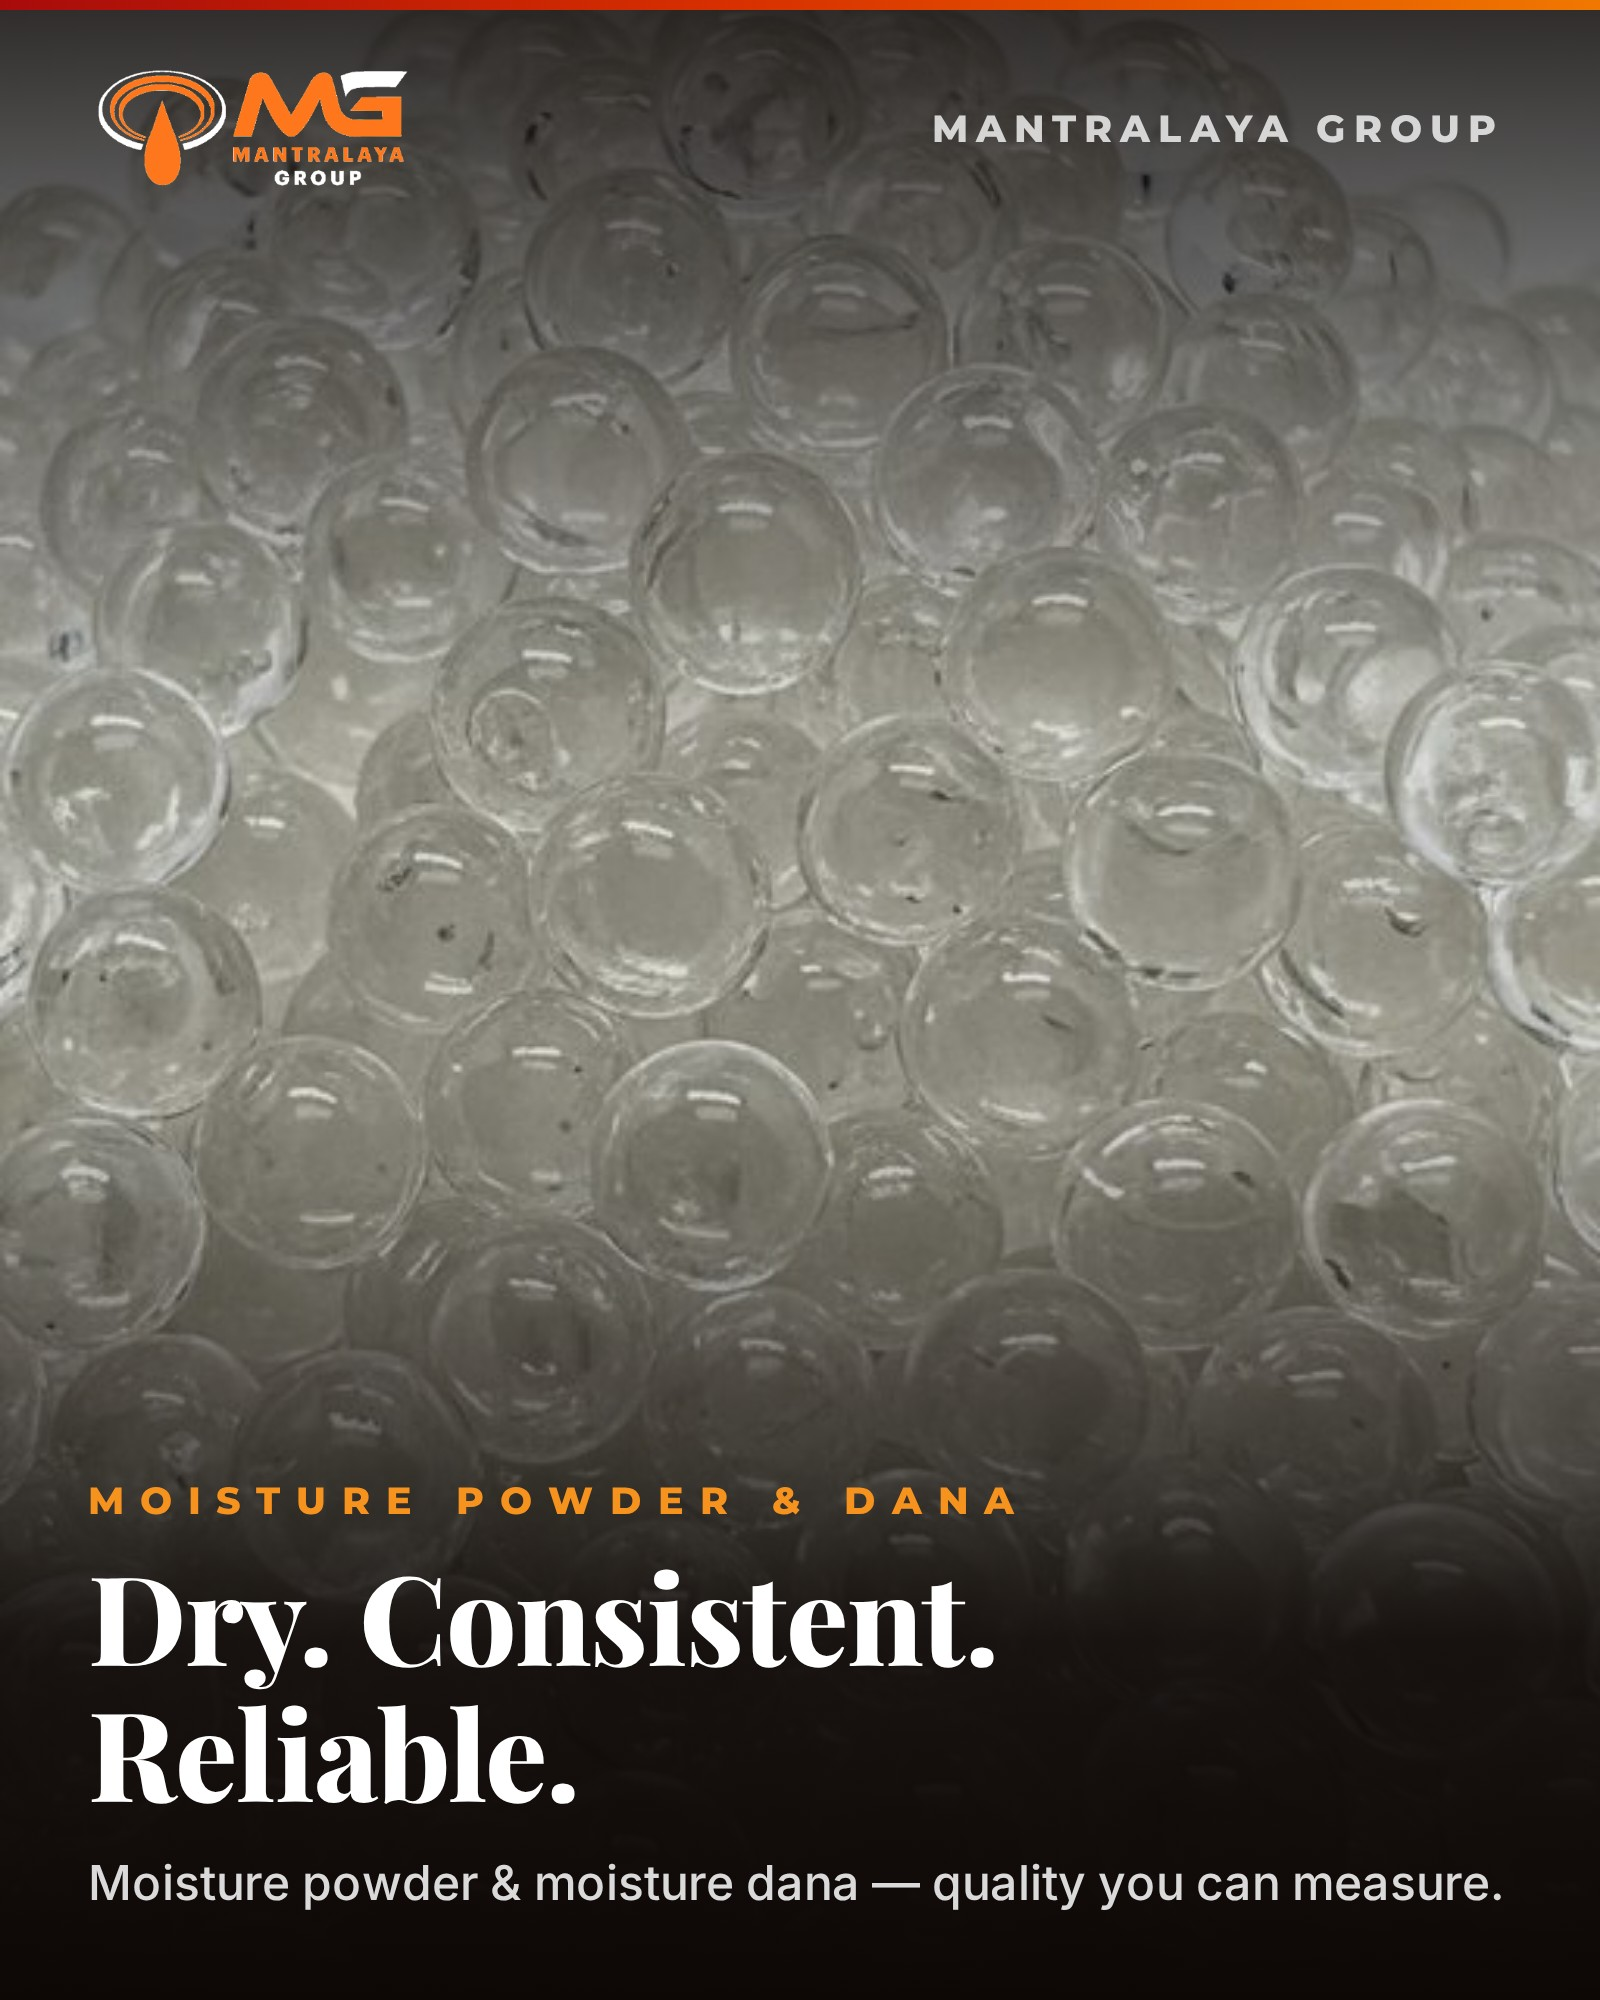
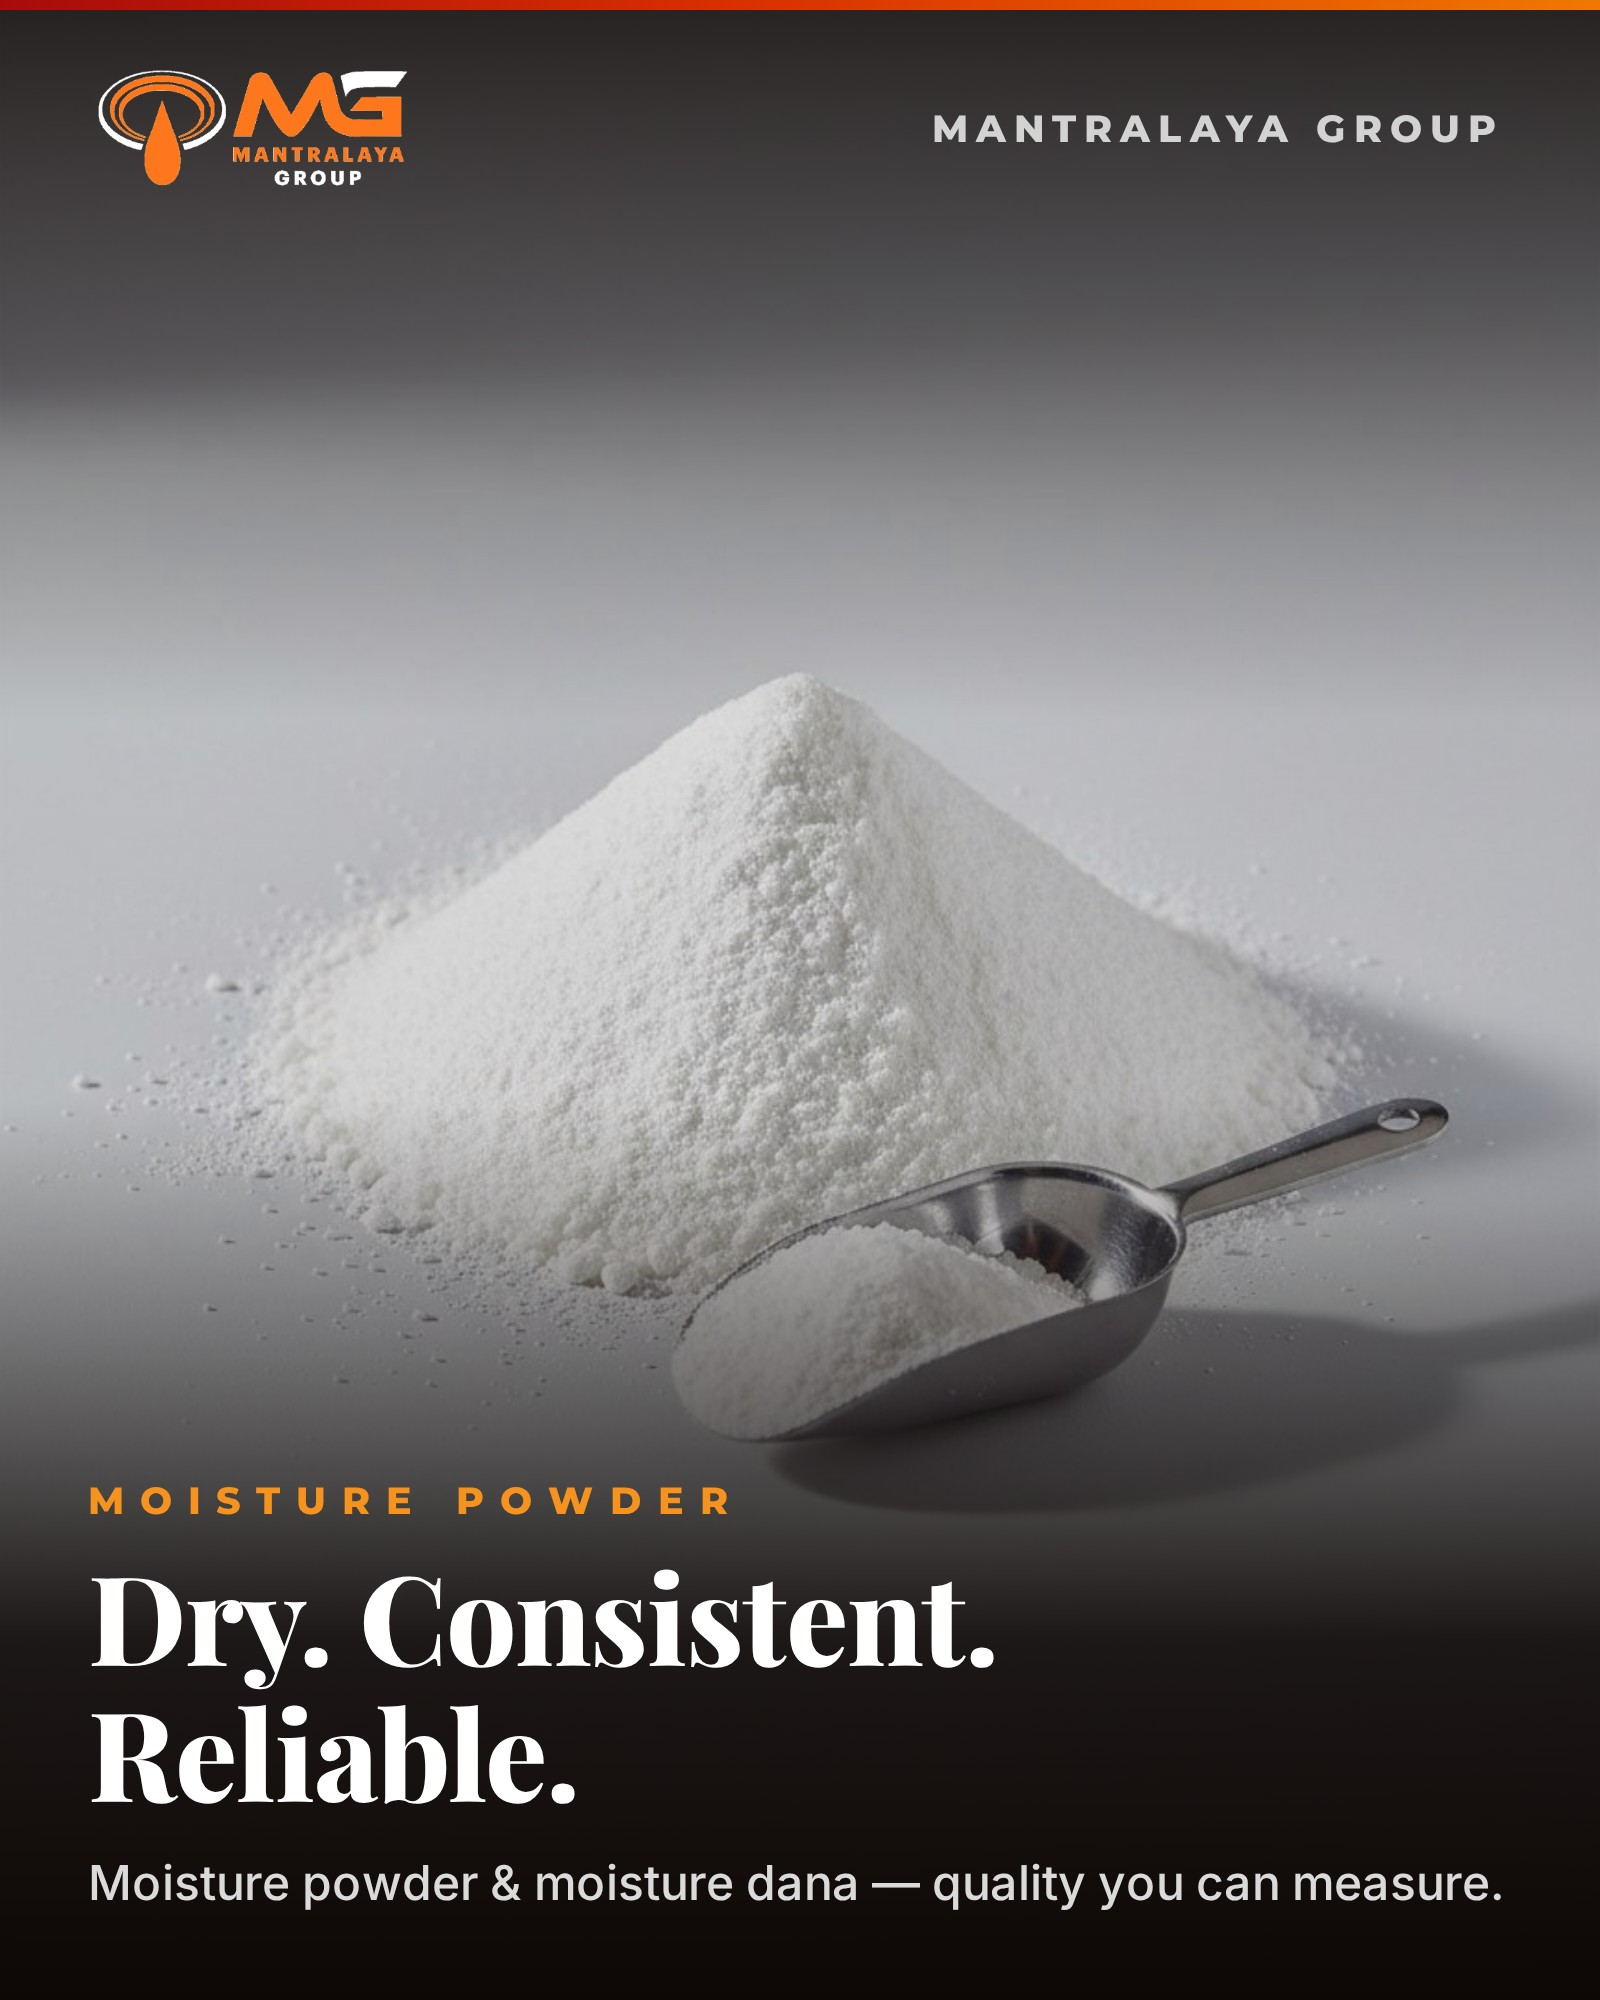
Poster 04: real moisture powder image replaces granules stand-in

diff --git a/posters/src/poster-04-moisture--dark.html b/posters/src/poster-04-moisture--dark.html
@@ -20,5 +20,5 @@ body{width:800px;height:1000px;overflow:hidden;position:relative;font-family:'Mo
 .bt{margin-top:auto;padding:0 44px 40px;position:relative;z-index:4}
 .cap2{font-size:62px;margin-top:12px;color:#fff}
 .sub{margin-top:14px;font-family:'Inter',sans-serif;font-size:24px;font-weight:500;color:rgba(255,255,255,0.85);line-height:1.5}
-</style><div class="ph"><img src="../../products/natural-granules.jpg"></div><div class="rule"></div><div class="hdr"><img src="../../mg-logo-dark.png"><div class="co">MANTRALAYA GROUP</div></div>
-<div class="bt"><div class="label">MOISTURE POWDER &amp; DANA</div><div class="cap cap2">Dry. Consistent. Reliable.</div><div class="sub">Moisture powder &amp; moisture dana — quality you can measure.</div></div></body></html>
+</style><div class="ph"><img src="../../products/moisture-powder-full.jpg"></div><div class="rule"></div><div class="hdr"><img src="../../mg-logo-dark.png"><div class="co">MANTRALAYA GROUP</div></div>
+<div class="bt"><div class="label">MOISTURE POWDER</div><div class="cap cap2">Dry. Consistent. Reliable.</div><div class="sub">Moisture powder &amp; moisture dana — quality you can measure.</div></div></body></html>

diff --git a/posters/src/poster-04-moisture--light.html b/posters/src/poster-04-moisture--light.html
@@ -20,5 +20,5 @@ body{width:800px;height:1000px;overflow:hidden;position:relative;font-family:'Mo
 .bt{margin-top:auto;padding:0 44px 40px;position:relative;z-index:4}
 .cap2{font-size:62px;margin-top:12px;color:#10141B}
 .sub{margin-top:14px;font-family:'Inter',sans-serif;font-size:24px;font-weight:500;color:#3A4250;line-height:1.5}
-</style><div class="ph"><img src="../../products/natural-granules.jpg"></div><div class="rule"></div><div class="hdr"><img src="../../mg-logo.png"><div class="co">MANTRALAYA GROUP</div></div>
-<div class="bt"><div class="label">MOISTURE POWDER &amp; DANA</div><div class="cap cap2">Dry. Consistent. Reliable.</div><div class="sub">Moisture powder &amp; moisture dana — quality you can measure.</div></div></body></html>
+</style><div class="ph"><img src="../../products/moisture-powder-full.jpg"></div><div class="rule"></div><div class="hdr"><img src="../../mg-logo.png"><div class="co">MANTRALAYA GROUP</div></div>
+<div class="bt"><div class="label">MOISTURE POWDER</div><div class="cap cap2">Dry. Consistent. Reliable.</div><div class="sub">Moisture powder &amp; moisture dana — quality you can measure.</div></div></body></html>

diff --git a/posters/gen2.py b/posters/gen2.py
@@ -192,7 +192,7 @@ def build(dark):
       f"Sourced from the world's finest. {em('Delivered here.')}",
       ['ARAMCO','BOROUGE','CABOT','CELANESE','CHEVRON PHILLIPS','EXXON MOBIL','FORMOSA','GC MARKETING','GULF POLYMERS','INEOS (INOVYN)','LG CHEM','LYONDELL BASELL','MITSUBISHI CORP.','OQ (LUBAN)','SABIC','SCGC','WESTLAKE','&amp; MORE'],6,'coloured-granules',circles=['natural-granules','coloured-granules','pigments']))
     v['poster-03-pigments'] = (700,1000, photoposter(700,1000,dark,'PIGMENTS','Colour, mastered.','Organic &amp; inorganic pigments for every application.','pigments'))
-    v['poster-04-moisture'] = (800,1000, photoposter(800,1000,dark,'MOISTURE POWDER &amp; DANA','Dry. Consistent. Reliable.','Moisture powder &amp; moisture dana — quality you can measure.','natural-granules'))
+    v['poster-04-moisture'] = (800,1000, photoposter(800,1000,dark,'MOISTURE POWDER','Dry. Consistent. Reliable.','Moisture powder &amp; moisture dana — quality you can measure.','moisture-powder-full'))
     v['poster-05-masterbatch'] = (700,1000, photoposter(700,1000,dark,'MASTER BATCHES','The right shade. Every batch.','White, black &amp; colour master batches.','coloured-granules'))
     v['poster-06-pp-apps'] = (1500,600, appsposter(1500,600,dark,'POLYPROPYLENE (PP)',f"One granule. {em('A thousand products.')}",
       [('Homopolymer',['Textile wraps &amp; garment bags','Woven sacks &amp; non-woven fabric','Thin-wall containers &amp; moulding']),
